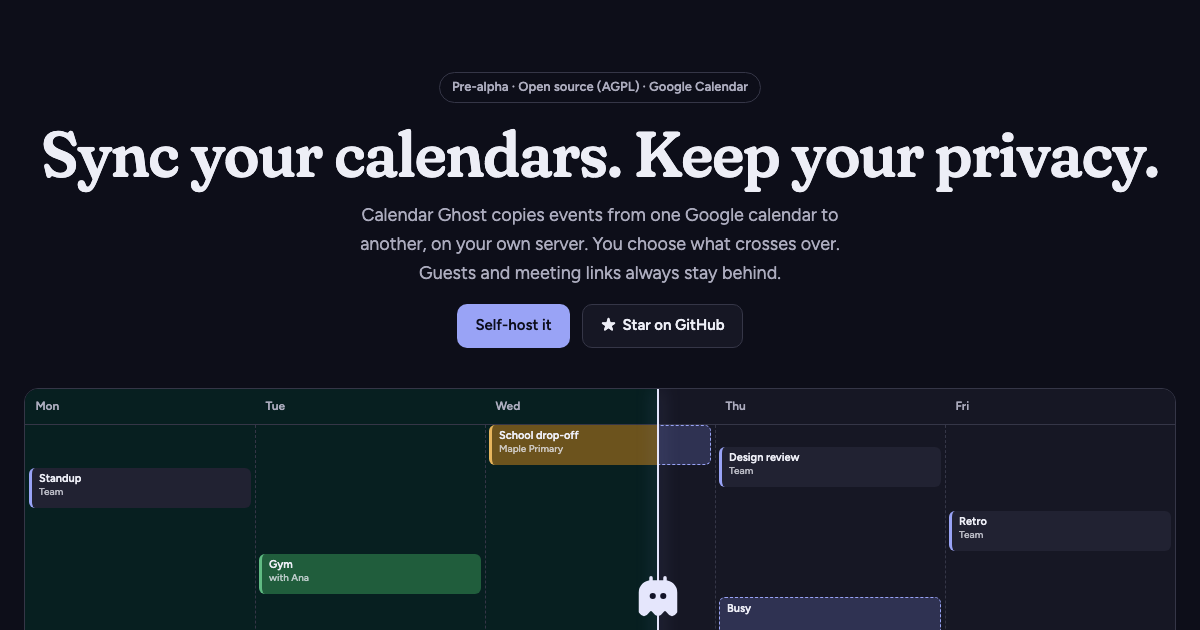
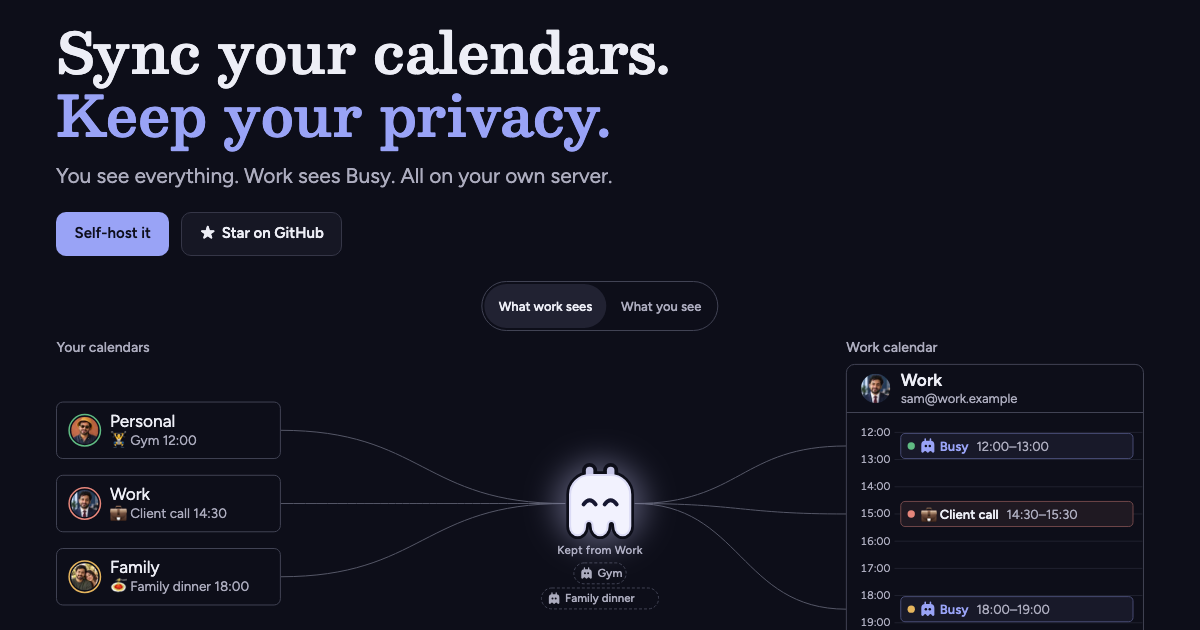
Show the new hero in link previews
The Open Graph image still showed the Wide Reveal hero, with the
"Pre-alpha" chip the page no longer says. It is regenerated from the hero as
it is now (dark, at rest), and its alt text says what it shows. The script
takes PREVIEW_PORT, so it can run against a preview other than 4321.

diff --git a/site/src/i18n/en.ts b/site/src/i18n/en.ts
@@ -32,7 +32,7 @@ export const en = {
     notFoundTitle: "Page not found · Calendar Ghost",
     /** A documentation page's title: `{title}` is its document's own first heading. */
     docTitle: "{title} · Calendar Ghost",
-    ogImageAlt: "Calendar Ghost: a work week where personal plans show only as Busy",
+    ogImageAlt: "Calendar Ghost: Sam's calendars pass through the ghost, and the Work calendar shows Personal and Family plans only as Busy",
   },
   nav: {
     label: "Main",
